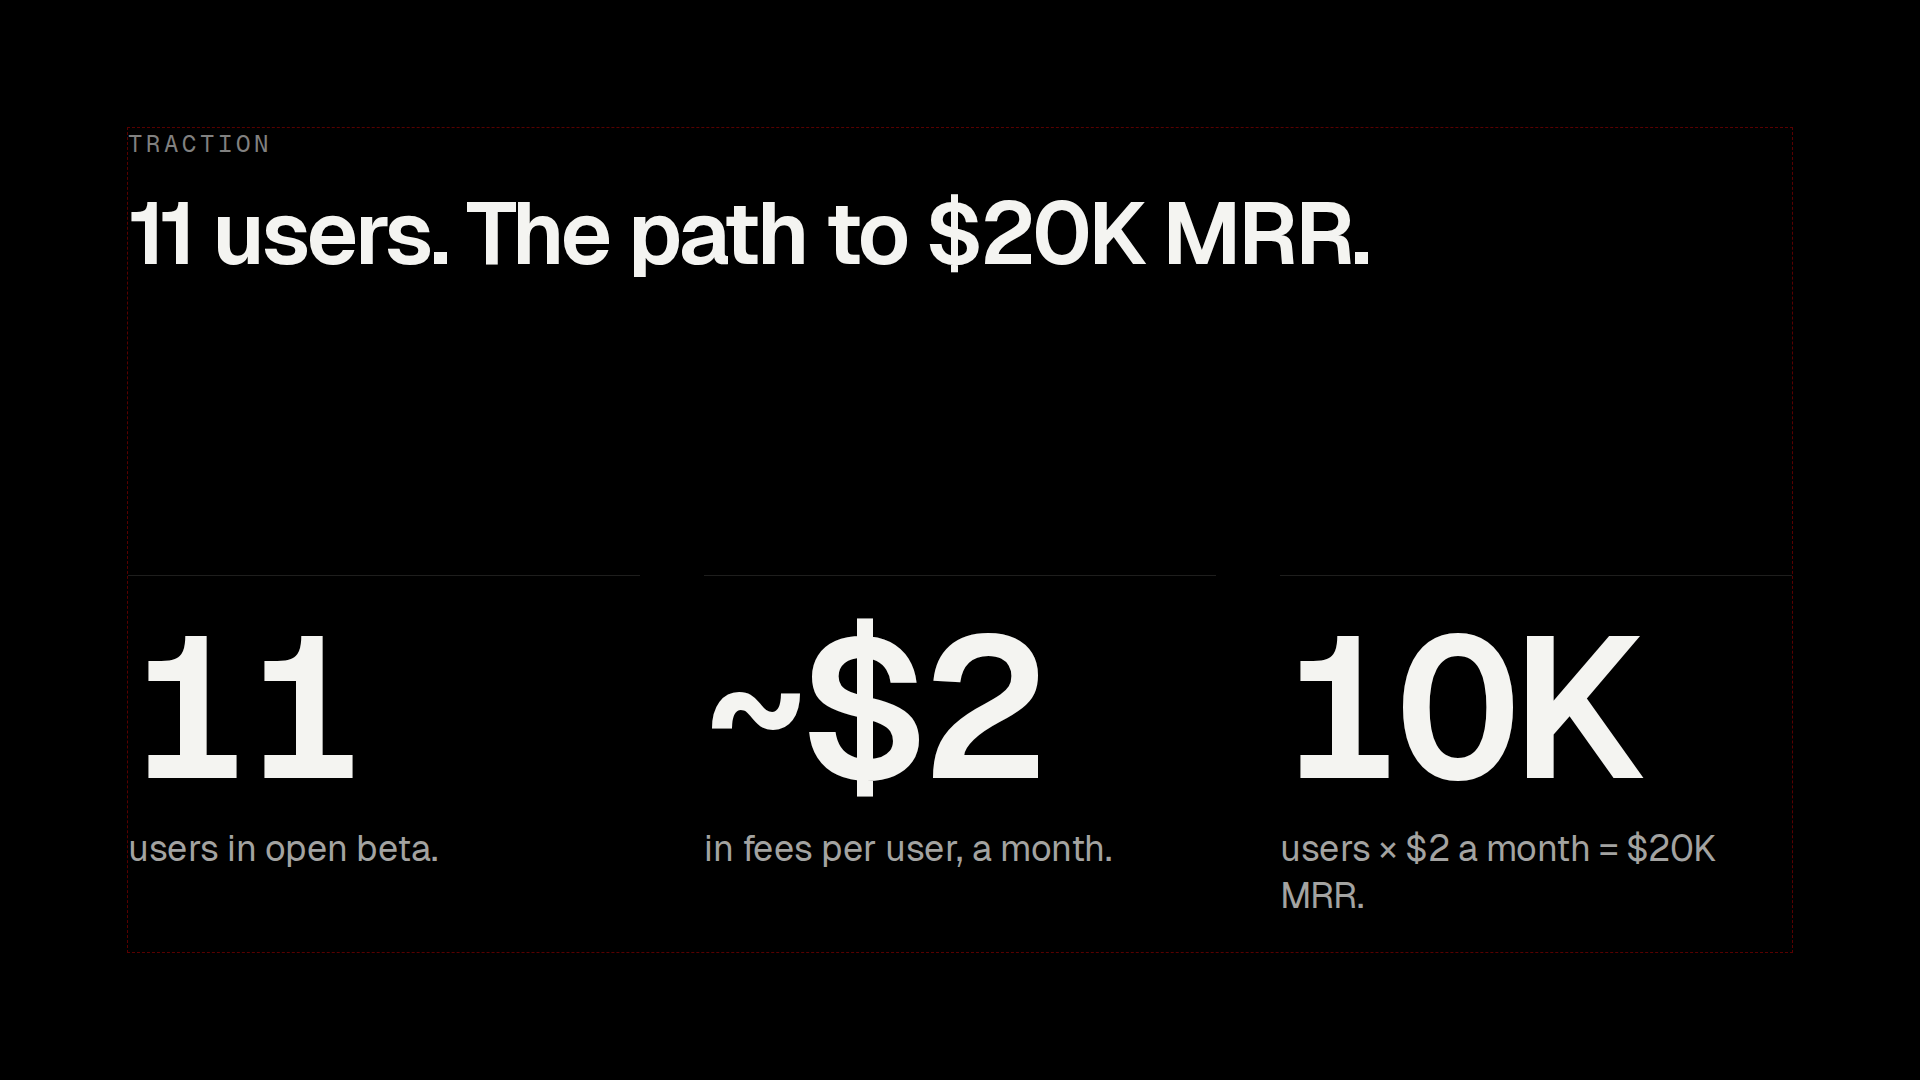
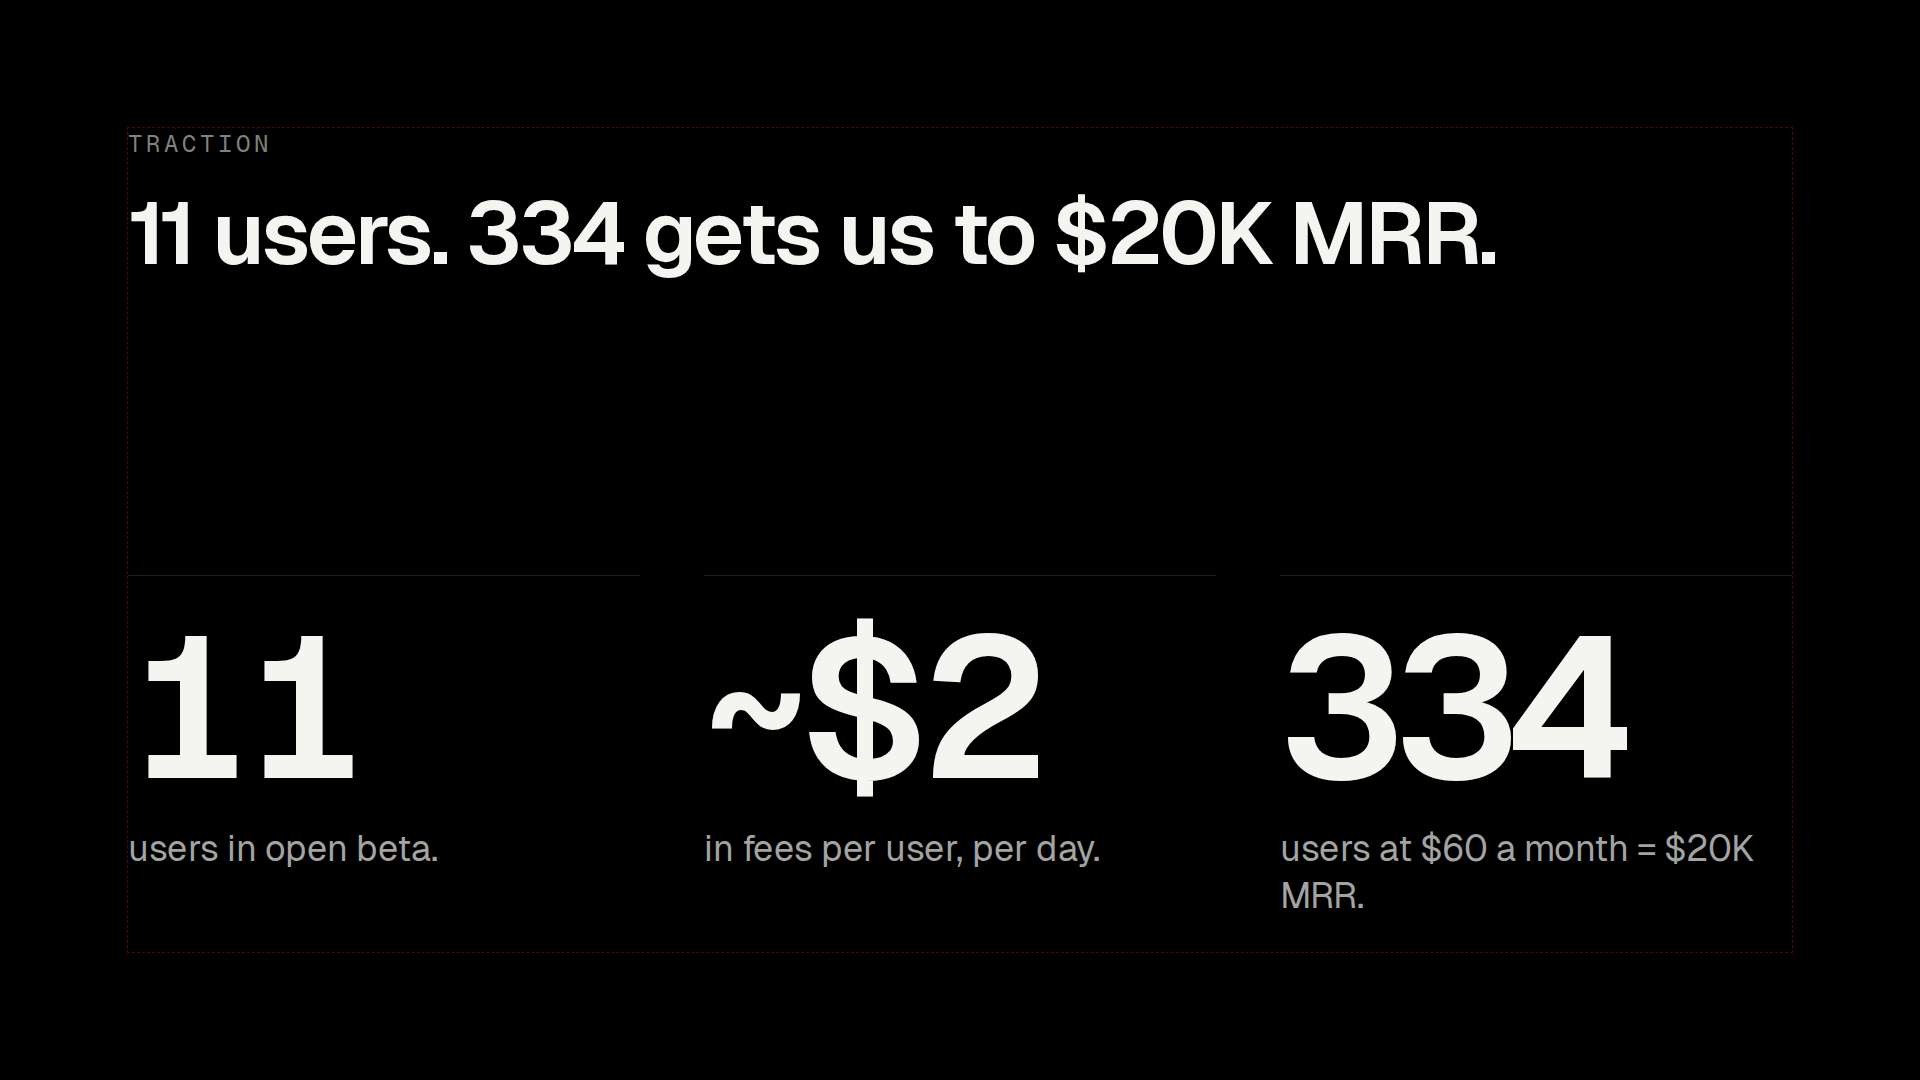
docs(pitch): $2/day traction math, Superteam bounty, team headline + Superteam Germany
Claude-Session: https://claude.ai/code/session_01C63X7bmiYFRUvieQLSha7b

diff --git a/docs/pitch/deck/build_simple_slides.py b/docs/pitch/deck/build_simple_slides.py
@@ -48,10 +48,10 @@ SLIDES = {
                  bigs([("$940M", "paid to Solana trading bots in 2025."),
                        ("0.5%", "our fee per trade. Live today.")], 240),
                  "Solana Foundation 2025 recap (Blockworks) · 1% bots: Photon, Trojan, BonkBot"),
-    "traction": ("Traction", "11 users. The path to $20K MRR.",
+    "traction": ("Traction", "11 users. 334 gets us to $20K MRR.",
                  bigs([("11", "users in open beta."),
-                       ("~$2", "in fees per user, a month."),
-                       ("10K", "users × $2 a month = $20K MRR.")], 200),
+                       ("~$2", "in fees per user, per day."),
+                       ("334", "users at $60 a month = $20K MRR.")], 200),
                  ""),
 }
 
@@ -72,7 +72,7 @@ def gtm():
                 f'      </div>\n')
     left = (f'    <div style="display:flex; flex-direction:column; flex:1">\n'
             f'      <p style="{MONO}; font-size:24px; letter-spacing:4px; text-transform:uppercase; color:{MID}; padding:0 0 18px">How we get users</p>\n'
-            + row("01 · Bounty on Earn", "$5K", "The first autonomous trading competition. Best strategy wins.")
+            + row("01 · Superteam Earn bounty", "$5K", "Our test: the first autonomous trading competition. Best strategy wins.")
             + row("02 · X", "Ads + DMs", "Paid ads and cold DMs to traders on X.")
             + '    </div>\n')
     right = (f'    <div style="display:flex; flex-direction:column; flex:1">\n'
@@ -90,3 +90,33 @@ for sid, (eb, h, body, foot) in SLIDES.items():
     open(f"{OUT}/{sid}.html", "w").write(section(sid, eb, h, body, foot))
 open(f"{OUT}/gtm.html", "w").write(gtm())
 print("ok")
+
+
+def team():
+    rows = [
+        ("/_blob/645c45990ef87d1be936649a1f600aca", "BlockRun logo", "Product & Growth Lead, BlockRun", "The leading x402 gateway"),
+        ("/_blob/d965f9aa423f91f800a9ada66ef7722b", "Sorbet logo", "Founder & CEO, Sorbet", "Neobank. Raised $1M, scaled to $5M in monthly volume."),
+        ("/_blob/1a6766dfb70f34dd78b93e2c922fdd79", "Superteam logo", "Member, Superteam Germany", "Solana's builder network"),
+        ("/_blob/37e07f7c17a3f955571e65fe76aee2f6", "Deloitte logo", "Omnia AI, Deloitte", "Deloitte's AI practice"),
+    ]
+    items = ""
+    for i, (src, alt, title, sub) in enumerate(rows):
+        last = f"; border-bottom:1px solid {HAIR}" if i == len(rows) - 1 else ""
+        items += (f'      <div style="display:flex; flex-direction:row; gap:32px; align-items:center; padding:22px 0; border-top:1px solid {HAIR}{last}">\n'
+                  f'        <img src="{src}" alt="{alt}" style="width:80px; height:80px; border:1px solid {HAIR}; border-radius:18px; object-fit:cover">\n'
+                  f'        <div style="display:flex; flex-direction:column; gap:6px; flex:1">\n'
+                  f'          <p style="{SANS}; font-size:38px; font-weight:500; line-height:1.15; letter-spacing:-0.5px; color:{FG}">{e(title)}</p>\n'
+                  f'          <p style="{SANS}; font-size:28px; line-height:1.3; color:{MID}">{e(sub)}</p>\n'
+                  f'        </div>\n      </div>\n')
+    left = (f'    <div style="width:448px; display:flex; flex-direction:column; gap:24px; flex:0 0 auto">\n'
+            f'      <img src="/_blob/6267b634bb7c763519614c99ac639862" alt="Portrait of Rami Djebari" style="width:448px; height:448px; border:1px solid {HAIR}; border-radius:28px; object-fit:cover">\n'
+            f'      <div style="display:flex; flex-direction:column; gap:6px">\n'
+            f'        <p style="{SANS}; font-size:52px; font-weight:600; line-height:1.05; letter-spacing:-1.5px; color:{FG}">Rami Djebari</p>\n'
+            f'        <p style="{SANS}; font-size:30px; color:{MID}">Founder, Tocker</p>\n'
+            f'      </div>\n    </div>\n')
+    right = f'    <div style="display:flex; flex-direction:column; flex:1">\n{items}    </div>\n'
+    body = f'  <div style="display:flex; flex-direction:row; gap:96px; align-items:start">\n{left}{right}  </div>\n'
+    return section("team", "Team", "Ex-founder. Scaled to $5M a month.", body)
+
+
+open(f"{OUT}/team.html", "w").write(team())

diff --git a/docs/pitch/pitch-3min.md b/docs/pitch/pitch-3min.md
@@ -1,10 +1,10 @@
 # Tocker — 3-minute pitch (short deck, v6)
 
-~470 words over 11 slides, about 2:55 at 160 wpm. Reworked on Oct 8, 2026 after a pitch roast that pushed on three things: "what's the edge?", "the competitors are well established", and "performance". [pause] marks a beat.
+~501 words over 11 slides, about 3:05 at 160 wpm. Reworked on Oct 8, 2026 after a pitch roast that pushed on three things: "what's the edge?", "the competitors are well established", and "performance". [pause] marks a beat.
 - **Edge** (new slide, replaces the x402 "alpha" slide): not prediction but not losing, in three steps. Refuse the rugs (gates in code), pick by your thesis (paid data, cents a token), exit by rule. Evidence: research/29, code: research/30.
 - **Proof** slide dropped (Oct 9): the gate audit and house cohort stay in Q&A 20 as the plan, not on a slide.
 - **Competition** (Oct 9): a capability matrix, "Six good teams. Each covers a piece." Six AI startups vs Tocker on runs 24/7 on its own, your rules and guardrails, rug veto in code, picks and pays for its data (x402), pays for its AI in USDC. Cells from research/26 §7 Autonomy and the README matrix. Don't say rivals aren't 24/7: ClawPump, Minara (autopilot), Senpi and Fere all run 24/7. The moat answer is Q&A 22.
-- **Pitch #2 feedback (Oct 9): too much text.** Problem, solution, edge and business are now big numbers with one tagline each. GTM drops the feed image: two acquisition channels (a $5K autonomous trading competition as a bounty on Earn; paid ads and cold DMs on X) and the expansion markets. New traction slide after GTM: 11 users, ~$2 in fees per user a month (founder's figures), 10K users × $2 = $20K MRR.
+- **Pitch #2 feedback (Oct 9): too much text.** Problem, solution, edge and business are now big numbers with one tagline each. GTM drops the feed image: two acquisition channels (a $5K autonomous trading competition as a bounty on Earn; paid ads and cold DMs on X) and the expansion markets. New traction slide after GTM: 11 users, ~$2 in fees per user per day (founder's figures; ~$60 a month, so ~$660 MRR today), 334 users × $60 = $20K MRR. The GTM test is a Superteam Earn bounty. Team headline: "Ex-founder. Scaled to $5M a month.", with a Superteam Germany row (logo from github.com/SuperteamDAO).
 - **Stale facts fixed:** the 0.5% fee is live (main #53), the beta is open, and the solution slide no longer says "sell-check data" (Solana has no sell test).
 Earlier competition designs: docs/pitch/deck/competition-angles/.
 
@@ -30,13 +30,13 @@ Who pays? Traders already do: nine hundred forty million dollars last year to So
 It's a crowded space, and these are good teams, but each covers a piece. HeyElsa and Ask Gina are mostly chat with execution. Fere runs preset bots you can't configure. Senpi and Minara run perps strategies on bundled data, with no rug veto. Tocker does all five: it runs on its own 24/7, under your rules and guardrails, vetoes rugs in code, picks and pays for its data over x402, and pays for its own model in USDC.
 
 ## gtm
-We get users two ways. First, a bounty on Earn: the first autonomous trading competition, five thousand dollars, best strategy wins. Second, paid ads and cold DMs to traders on X. We start with Solana memecoins, four hundred eighty-two billion dollars traded last year, then Polymarket and tokenized stocks.
+We get users two ways. First, a Superteam Earn bounty to test it: the first autonomous trading competition, five thousand dollars, best strategy wins. Second, paid ads and cold DMs to traders on X. We start with Solana memecoins, four hundred eighty-two billion dollars traded last year, then Polymarket and tokenized stocks.
 
 ## traction
-Where are we? Eleven users in open beta, paying about two dollars each in fees a month. To reach twenty thousand dollars of MRR, we need ten thousand users. The competition and X are how we get there.
+Where are we? Eleven users in open beta, each paying about two dollars a day in fees, so about sixty dollars a month. At that rate, three hundred thirty-four users gets us to twenty thousand dollars of MRR. The competition and X are how we get there.
 
 ## team
-Why me? I lead product and growth at BlockRun, the leading x402 gateway. I founded Sorbet, a neobank moving five million a month. I worked on AI at Deloitte. And I shipped Tocker in under four weeks.
+Why me? I've done this before. I founded Sorbet, a neobank that raised a million dollars and scaled to five million a month in volume. Today I lead product and growth at BlockRun, the leading x402 gateway. I'm a Superteam Germany member, I worked on AI at Deloitte, and I shipped Tocker in under four weeks.
 
 ## thanks
 We're in open beta on Solana and Base. Tomorrow, twenty-one thousand more tokens launch. You won't have to watch one. [pause] Touch grass. Your agent is trading for you. Thank you.
@@ -74,7 +74,7 @@ We're in open beta on Solana and Base. Tomorrow, twenty-one thousand more tokens
 - ~$200/mo lean stack for one agent (problem slide), list prices, Oct 2026: Helius Developer $49 · Jupiter Ultra $0/mo but 10 bps a swap (50 bps on tokens <24h old; Ultra is superseded by Swap V2) · Nansen Pro $69 (API credits extra) · Grok X search ~$20 (xAI X search ~$5 per 1k posts, ≈4k posts/mo assumed, plus Grok Fast tokens) · Claude API ~$40 (founder's estimate; cached prompts or a smaller model) · hosting $22 (Hetzner CX23 + managed Postgres) — research/27. A production-grade stack is ~$2.5k/mo. Gas and swap fees excluded.
 
 ## Likely Q&A
-1. **Traction?** 11 users in open beta, ~$2 in fees per user a month (founder's figures; confirm the per-month basis before the pitch). $20K MRR needs ~10K users at that rate. Also: open beta since sign-up opened (main #19, #36); every agent starts on paper with $10k. Bring real numbers (agents, paper vs live fills, the share of candidates the gates refused), and never show the leaderboard as performance: it ranks paper and live agents together today.
+1. **Traction?** 11 users in open beta, ~$2 in fees per user per day (founder's figures), so ~$60 a month each and ~$660 MRR today. $20K MRR needs ~334 users at that rate. Expect "how many are active daily, and is it you?": know the split. Also: open beta since sign-up opened (main #19, #36); every agent starts on paper with $10k. Bring real numbers (agents, paper vs live fills, the share of candidates the gates refused), and never show the leaderboard as performance: it ranks paper and live agents together today.
 2. **"Senpi charges 5 bps, Robinhood's agents are free."** Our 0.5% is live (main #53) and sits in the band agents already charge: Fere AI takes 0.5% a trade, ClawPump's swap fee is 0.30–0.85%, and the bots take 1%. Senpi's 5 bps is on Hyperliquid perps, a different market. At $100 a trade the fee is 50¢; data costs ~2¢ a token on default sources, ~7¢ with Nansen. Careful on margins: the agent buys data for every token it scores, not just the ones it buys, so at the $5 daily data cap the fee only covers data above roughly $1,000 of trades per owner per day (research/30 §8). Don't claim the fee "pays for the data" yet.
 3. **Who pays for data? Unit economics?** Today the platform settles x402 calls; next, data bills to the agent's wallet and is shared per token across agents.
 4. **Why "infrastructure" without a public API/SDK?** The gates and the per-fill score record are the product; next, we sell the pre-trade check over x402 to any Coinbase, Bankr or OpenClaw agent.
